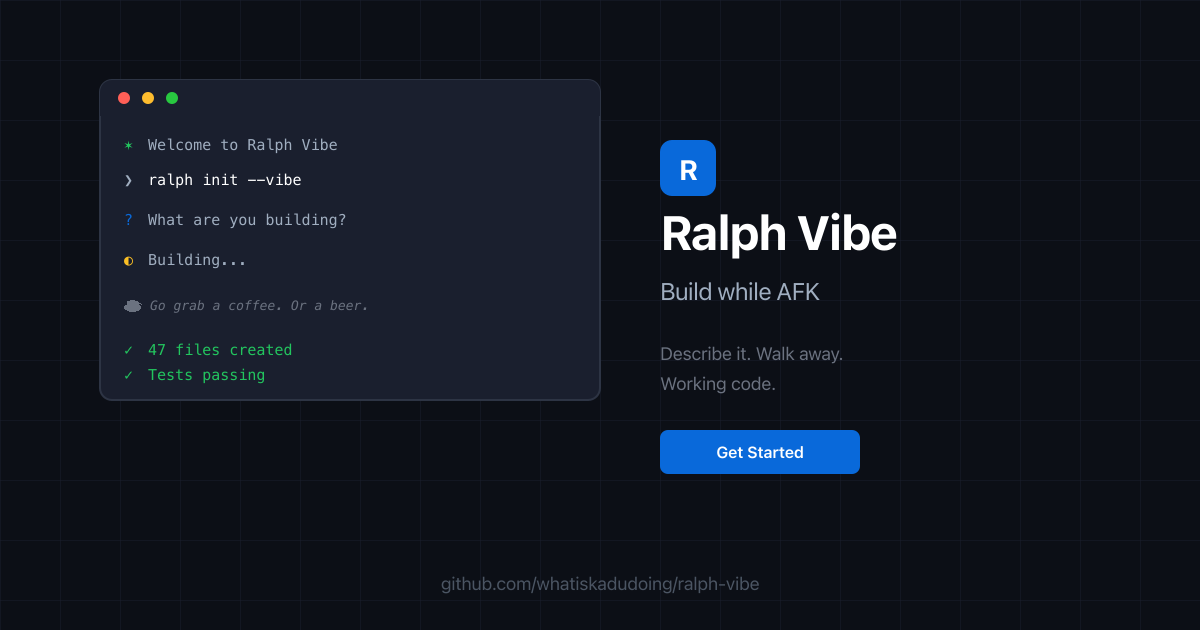
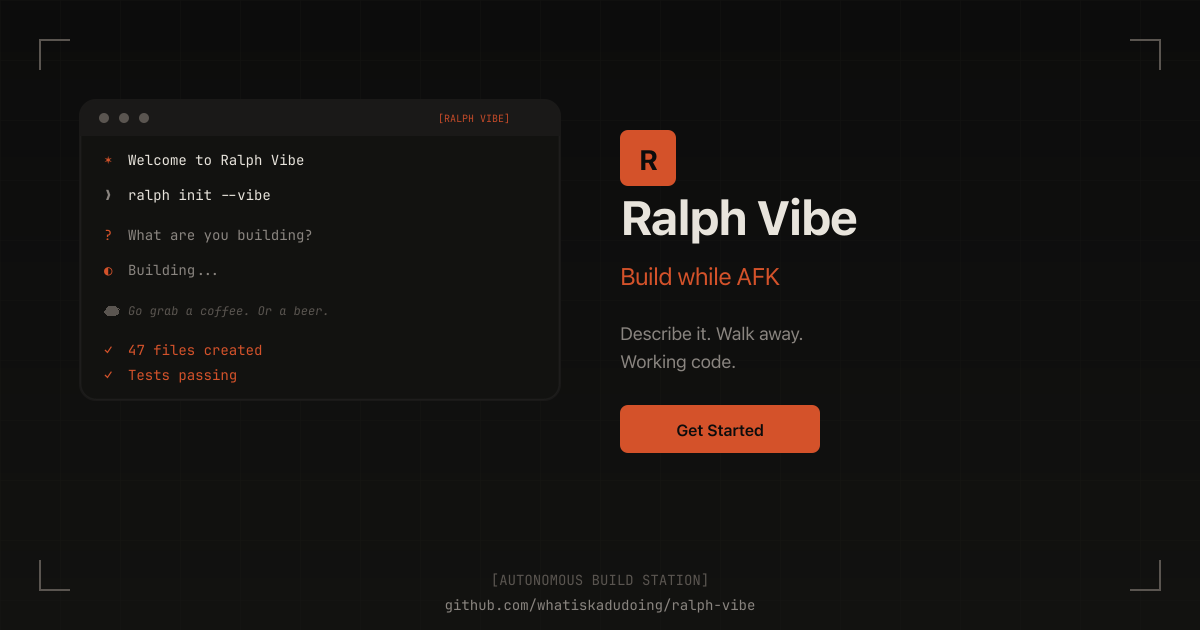
Complete industrial rebrand with site-wide elements (Phase 4)
Update favicon, OG image, and add ambient industrial framing to complete
the design system transformation from generic tech landing page to
Autonomous Build Station aesthetic.

- Favicon: Industrial void background with signal orange "R" and corner brackets
- OG image: Updated to industrial palette with void gradient, signal accents
- Corner marks: Fixed L-shaped industrial framing at page corners (desktop)
- Section dividers: Subtle gradient separators between all content sections

Changed region(s): [[0.0617, 0.1206, 0.7708, 0.754], [0.37, 0.9048, 0.6475, 0.9651], [0.0308, 0.0603, 0.0617, 0.0905]]

diff --git a/IMPLEMENTATION_PLAN.md b/IMPLEMENTATION_PLAN.md
@@ -163,10 +163,11 @@ Complete the design transformation with footer and site-wide polish.
   - Tagline styling: --font-sans, --text-secondary color
   - Uses design system spacing tokens (--space-X) and animation timing tokens
 
-- [ ] **Update Layout and site-wide elements** [spec: design-system.md] [file: src/components/Layout.astro]
-  - Update favicon if needed (consider industrial-themed icon)
-  - Verify Open Graph image still works against new design (may need update)
-  - Add any ambient industrial elements (section dividers, corner marks)
+- [x] **Update Layout and site-wide elements** [spec: design-system.md] [file: src/components/Layout.astro]
+  - Created industrial-themed favicon: void background (#0C0C0C), signal orange "R" (#D4522A), corner bracket marks
+  - Updated OG image to match industrial palette: void gradient background, signal orange accents, industrial terminal preview
+  - Added fixed corner marks (L-shaped) at page corners for industrial framing (hidden on mobile)
+  - Added section dividers between all page sections in index.astro
 
 ---
 <!-- CHECKPOINT: Full industrial rebrand complete, verify build succeeds -->
